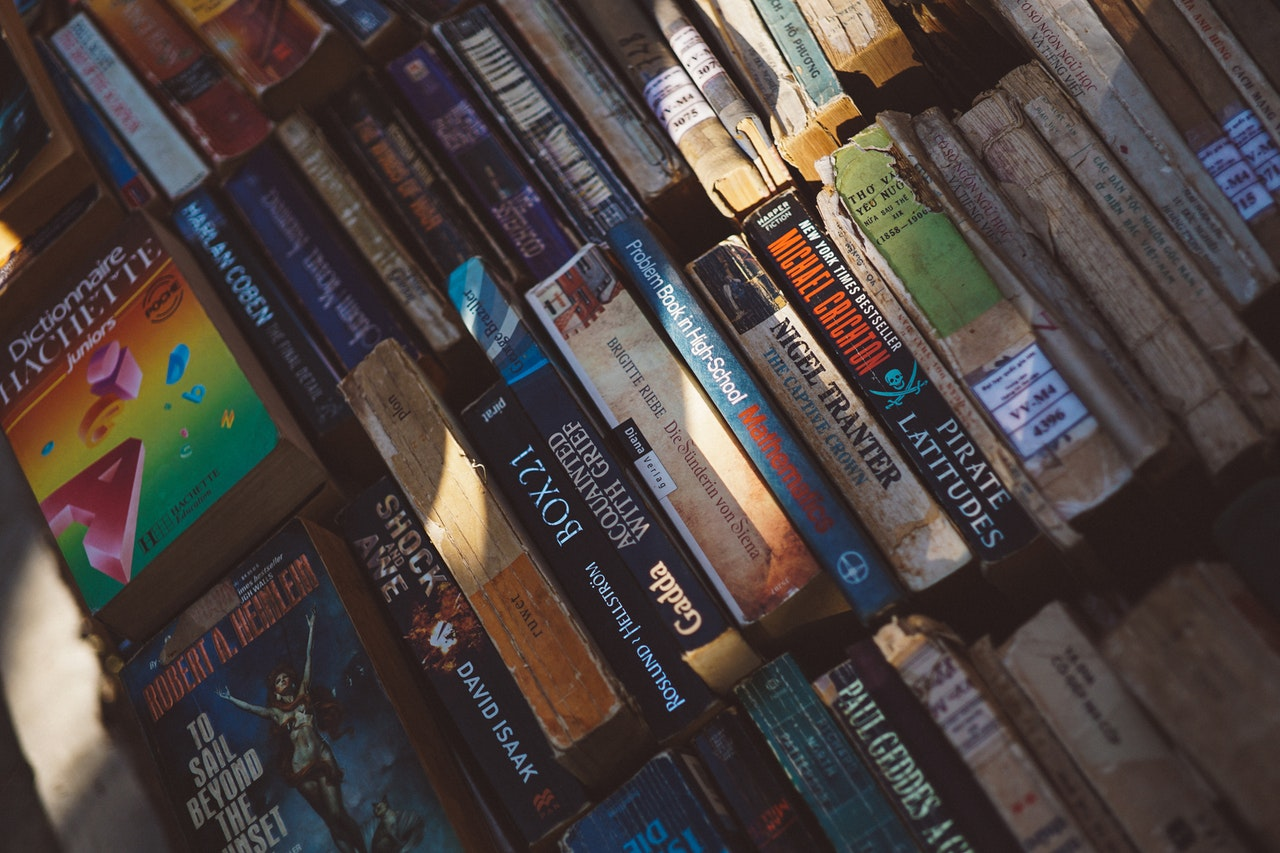
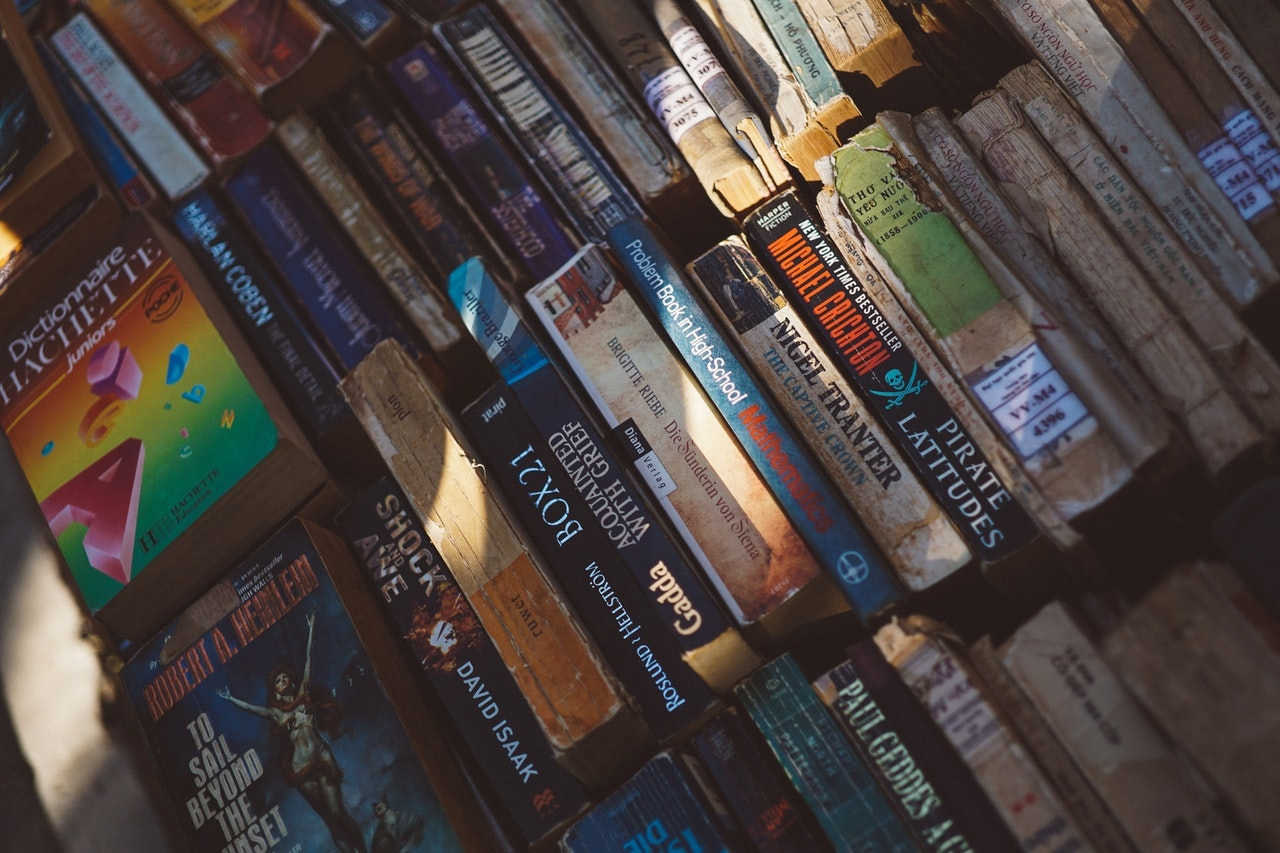
Image optimization

Changed region(s): [[0.5938, 0.2743, 0.6875, 0.4267]]

diff --git a/index.html b/index.html
@@ -26,7 +26,7 @@
   <div class="container">
     <div class="navbar-brand">
       <a class="navbar-item logo" href="/">
-        <img src="/assets/logo.png" alt="Stole">
+        <img src="/assets/10print.jpeg" alt="Stole">
       </a>
       <span class="navbar-burger burger" data-target="navbarMenu">
         <span></span>
@@ -112,7 +112,7 @@
       </div>
     </div>
     <figure class="image">
-      <img src=/assets/ghibli-search/ghibli-search.png>
+      <img src=/assets/ghibli-search/ghibli-search.jpeg>
     </figure>
     <div class="content article-body">
       <p class="card-text"><blockquote> <p>Notice: This article is not a tutorial, but just a simple and quick overview on how this app was built.</p> </blockquote> <p>GitHub repository <a href="https://github.com/toddmotto/public-apis">public-apis</a> is a great place if you’re looking for a free API for your next project. One of them is Studio’s Ghibli API which contains a list of their movies, as well as a list of characters, places etc. Since I’m learning React, I decided to try it out in a mini project, simply called...</p>
@@ -144,7 +144,7 @@
       </div>
     </div>
     <figure class="image">
-      <img src=/assets/projects-blog/projects-blog.png>
+      <img src=/assets/projects-blog/projects-blog.jpeg>
     </figure>
     <div class="content article-body">
       <p class="card-text"><p>While looking at my <a href="https://github.com/stoleS">github profile</a>, I thought it would be good to better describe some more important projects in a blog type website. Since I worked with <a href="https://jekyllrb.com/">Jekyll</a> before, I decided to use it as a backbone for this project. So here it is, in all of it’s glory. In the next few paragraphs I’ll try to explain some of more important things of this project.</p> <h3 id="dependencies">Dependencies</h3> <p>For this project I used only one npm dependency,...</p>

diff --git a/2018/07/21/react-ghibli-search/index.html b/2018/07/21/react-ghibli-search/index.html
@@ -26,7 +26,7 @@
   <div class="container">
     <div class="navbar-brand">
       <a class="navbar-item logo" href="/">
-        <img src="/assets/logo.png" alt="Stole">
+        <img src="/assets/10print.jpeg" alt="Stole">
       </a>
       <span class="navbar-burger burger" data-target="navbarMenu">
         <span></span>
@@ -77,7 +77,7 @@
 </nav>
 <!-- END NAV -->
 <section class="hero is-info is-medium is-bold">
-  <div class="hero-body" style="background-image:url(/assets/ghibli-search/ghibli-search.png);">
+  <div class="hero-body" style="background-image:url(/assets/ghibli-search/ghibli-search.jpeg);">
     <div class="container has-text-centered">
       <h1 class="subtitle is-2" id="type">Studio Ghibli - movies app</h1>
     </div>
@@ -108,7 +108,7 @@
         </p>
         <div class="divider has-background-grey-light"></div>
         <figure class="image">
-          <img src=/assets/ghibli-search/ghibli-search.png>
+          <img src=/assets/ghibli-search/ghibli-search.jpeg>
         </figure>
       </div>
     </div>
@@ -158,7 +158,7 @@ npm i <span class="nt">--save</span> @fortawesome/react-fontawesome
 
 <p>Since React is built around components, the first thing we want to do when creating an app is to break it’s UI into components.</p>
 
-<p><img src="/assets/ghibli-search/ghibli-search-components.png" alt="Ghibli Search" /></p>
+<p><img src="/assets/ghibli-search/ghibli-search-components.jpeg" alt="Ghibli Search" /></p>
 
 <p>According to this, our components are as following:</p>
 

diff --git a/2018/07/13/projects-blog/index.html b/2018/07/13/projects-blog/index.html
@@ -26,7 +26,7 @@
   <div class="container">
     <div class="navbar-brand">
       <a class="navbar-item logo" href="/">
-        <img src="/assets/logo.png" alt="Stole">
+        <img src="/assets/10print.jpeg" alt="Stole">
       </a>
       <span class="navbar-burger burger" data-target="navbarMenu">
         <span></span>
@@ -77,7 +77,7 @@
 </nav>
 <!-- END NAV -->
 <section class="hero is-info is-medium is-bold">
-  <div class="hero-body" style="background-image:url(/assets/projects-blog/projects-blog.png);">
+  <div class="hero-body" style="background-image:url(/assets/projects-blog/projects-blog.jpeg);">
     <div class="container has-text-centered">
       <h1 class="subtitle is-2" id="type">Projects Blog</h1>
     </div>
@@ -108,7 +108,7 @@
         </p>
         <div class="divider has-background-grey-light"></div>
         <figure class="image">
-          <img src=/assets/projects-blog/projects-blog.png>
+          <img src=/assets/projects-blog/projects-blog.jpeg>
         </figure>
       </div>
     </div>

diff --git a/about/index.html b/about/index.html
@@ -26,7 +26,7 @@
   <div class="container">
     <div class="navbar-brand">
       <a class="navbar-item logo" href="/">
-        <img src="/assets/logo.png" alt="Stole">
+        <img src="/assets/10print.jpeg" alt="Stole">
       </a>
       <span class="navbar-burger burger" data-target="navbarMenu">
         <span></span>

diff --git a/archive/index.html b/archive/index.html
@@ -26,7 +26,7 @@
   <div class="container">
     <div class="navbar-brand">
       <a class="navbar-item logo" href="/">
-        <img src="/assets/logo.png" alt="Stole">
+        <img src="/assets/10print.jpeg" alt="Stole">
       </a>
       <span class="navbar-burger burger" data-target="navbarMenu">
         <span></span>

diff --git a/contact/index.html b/contact/index.html
@@ -26,7 +26,7 @@
   <div class="container">
     <div class="navbar-brand">
       <a class="navbar-item logo" href="/">
-        <img src="/assets/logo.png" alt="Stole">
+        <img src="/assets/10print.jpeg" alt="Stole">
       </a>
       <span class="navbar-burger burger" data-target="navbarMenu">
         <span></span>
